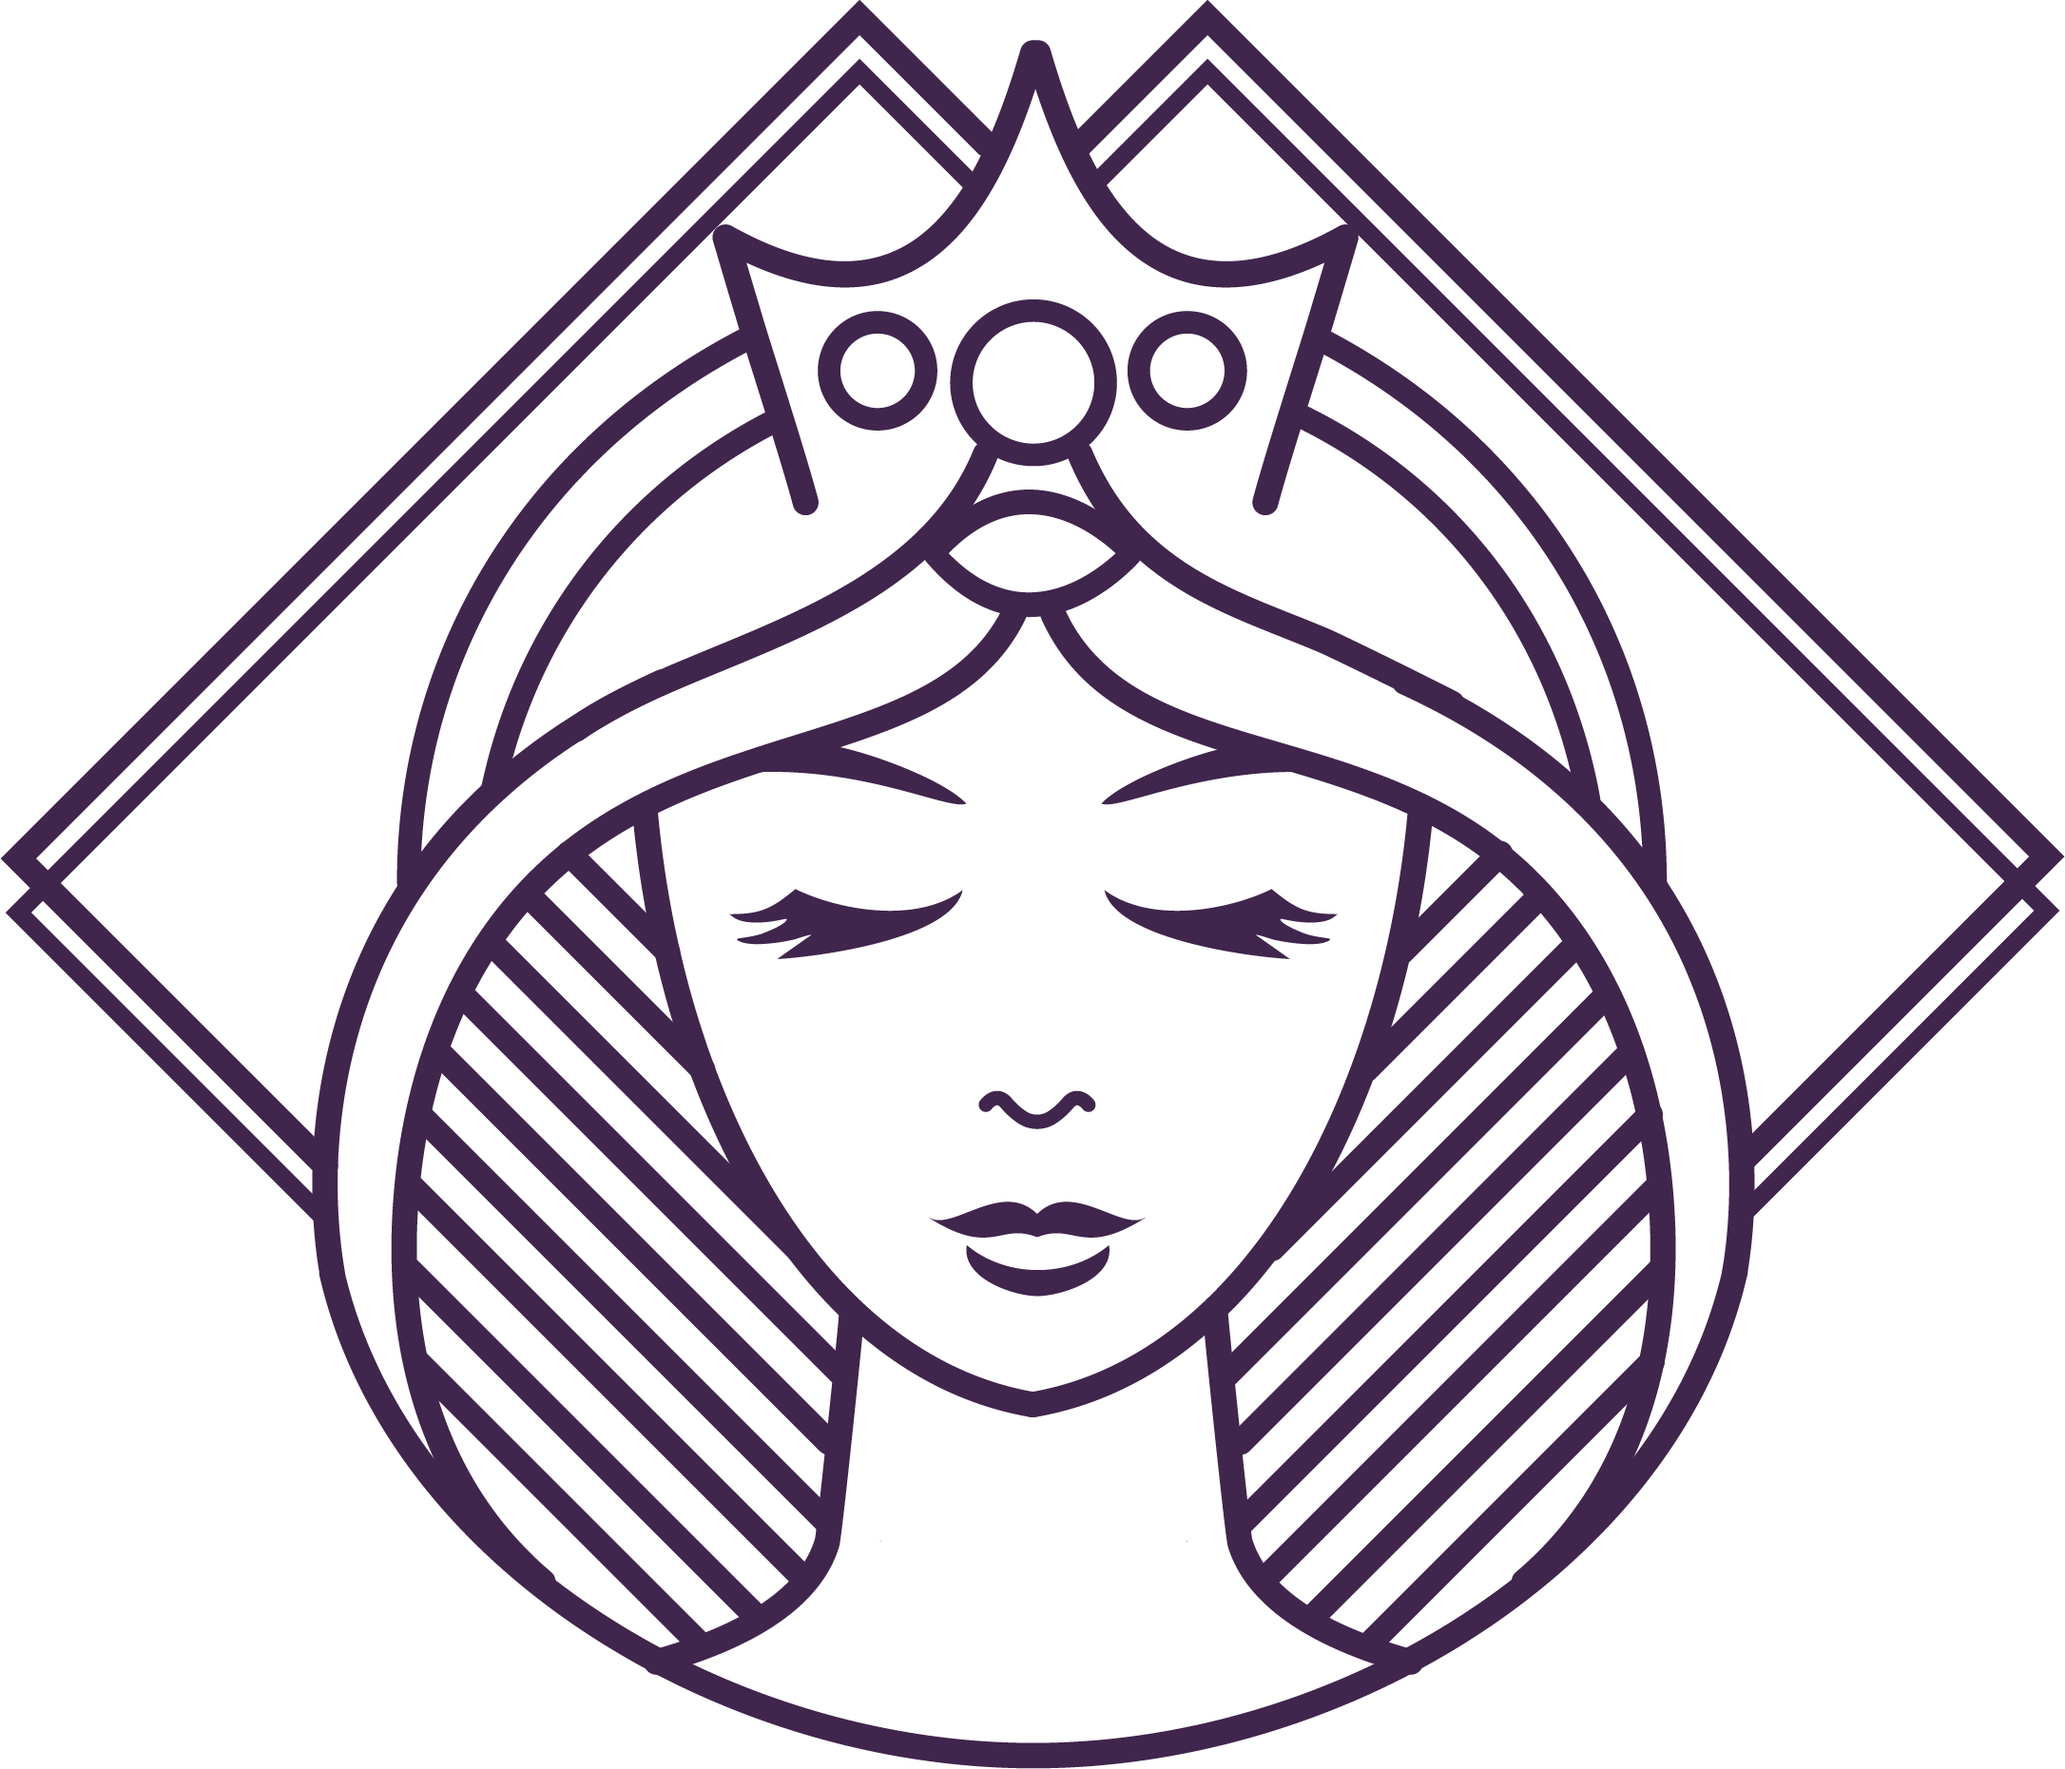
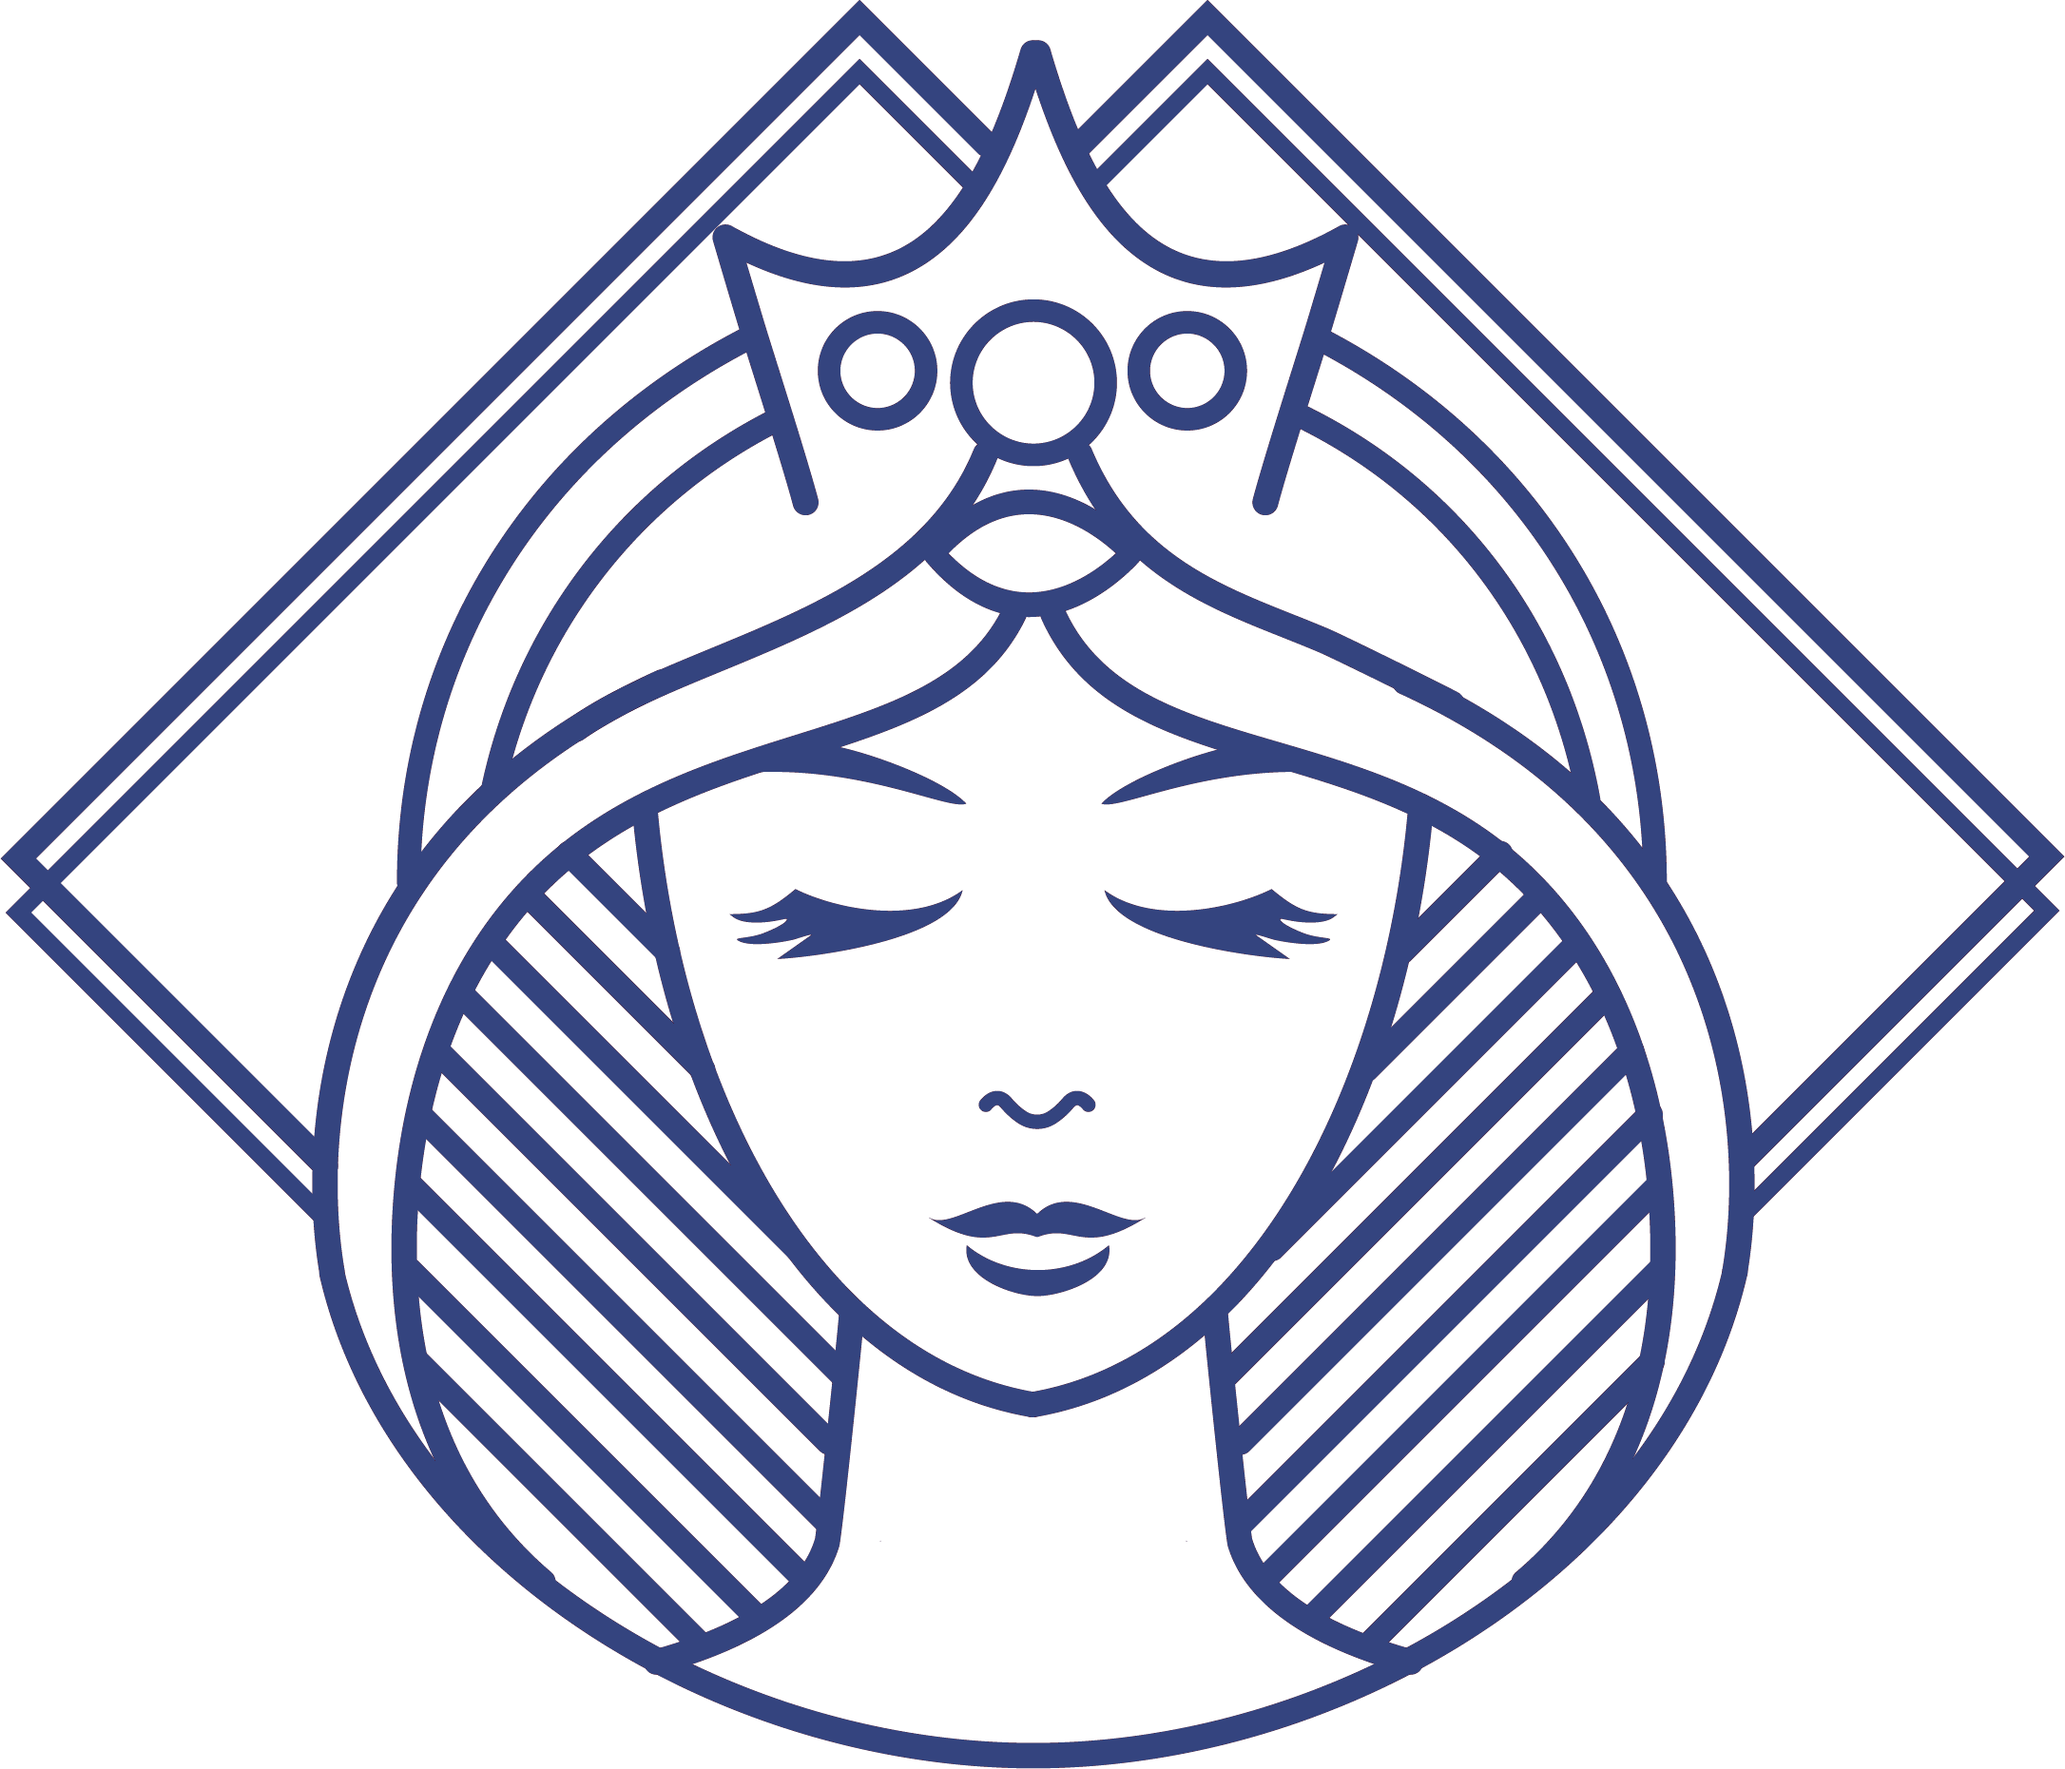
cambio icono

diff --git a/lib/presentation/screens/auth/login_screen.dart b/lib/presentation/screens/auth/login_screen.dart
@@ -24,17 +24,22 @@ class _LoginView extends StatelessWidget {
 
   @override
   Widget build(BuildContext context) {
-    return const SafeArea(
+    return SafeArea(
       child: Padding(
-        padding: EdgeInsets.symmetric(horizontal: 30),
+        padding: const EdgeInsets.symmetric(horizontal: 30),
         child: SingleChildScrollView(
           child: Column(
             children: [
-              SizedBox(height: 40),
-              FlutterLogo(size: 200),
-              SizedBox(height: 40),
-              _LoginForm(),
-              SizedBox(height: 20),
+              const SizedBox(height: 40),
+              Image.asset(
+                'assets/images/icono.png',
+                width: 200, // Opcional: tamaño deseado
+                height: 200,
+                fit: BoxFit.contain, // O BoxFit.cover, según prefieras
+              ),
+              const SizedBox(height: 40),
+              const _LoginForm(),
+              const SizedBox(height: 20),
             ],
           ),
         ),
@@ -73,7 +78,7 @@ class _LoginForm extends ConsumerWidget {
             label: 'Correo electrónico',
             prefixIcon: Icons.email,
             onChanged: loginNotifier.emailChanged,
-            //initialValue: 'angelitorogo@hotmail.com', //eliminar linea.
+            initialValue: 'angelitorogo@hotmail.com', //eliminar linea.
             validator: (_) {
               return loginState.emailTouched
                   ? Email.emailErrorMessage(loginState.email.error)
@@ -89,7 +94,7 @@ class _LoginForm extends ConsumerWidget {
             prefixIcon: Icons.password,
             obscureText: true,
             onChanged: loginNotifier.passwordChanged,
-            //initialValue: 'Rod00gom!', //Eliminar linea
+            initialValue: 'Rod00gom!', //Eliminar linea
             validator: (_) {
               return loginState.passwordTouched
                   ? Password.passwordErrorMessage(loginState.password.error)
@@ -146,18 +151,6 @@ class _LoginForm extends ConsumerWidget {
               
               },
 
-              /*
-              onPressed: authState.isLoading ||
-                      loginState.status != FormzSubmissionStatus.success
-                  /? null
-                  : () async {
-                      await authNotifier.login(
-                        context,
-                        loginState.email.value,
-                        loginState.password.value,
-                      );
-                    },
-              */
               icon: const Icon(Icons.login, size: 30, color: Colors.white,),
               label: const Text('Login', style: TextStyle(fontSize: 17)),
             ),

diff --git a/lib/presentation/screens/auth/register_screen.dart b/lib/presentation/screens/auth/register_screen.dart
@@ -26,17 +26,22 @@ class _RegisterView extends StatelessWidget {
 
   @override
   Widget build(BuildContext context) {
-    return const SafeArea(
+    return SafeArea(
       child: Padding(
-        padding: EdgeInsets.symmetric(horizontal: 30),
+        padding: const EdgeInsets.symmetric(horizontal: 30),
         child: SingleChildScrollView(
           child: Column(
             children: [
-              SizedBox(height: 40),
-              FlutterLogo(size: 200),
-              SizedBox(height: 40),
-              _RegisterForm(),
-              SizedBox(height: 20),
+              const SizedBox(height: 40),
+              Image.asset(
+                'assets/images/icono.png',
+                width: 200, // Opcional: tamaño deseado
+                height: 200,
+                fit: BoxFit.contain, // O BoxFit.cover, según prefieras
+              ),
+              const SizedBox(height: 40),
+              const _RegisterForm(),
+              const SizedBox(height: 20),
             ],
           ),
         ),

diff --git a/lib/presentation/providers/auth/auth_provider.dart b/lib/presentation/providers/auth/auth_provider.dart
@@ -142,9 +142,9 @@ class AuthNotifier extends StateNotifier<AuthState> {
     state = state.copyWith(isLoading: true, errorMessage: null);
 
     //email = 'pepe2@pepe.com'; //para no tener que escribir email y password mientras dure el desarrollo
-    //email = 'angelitorogo@hotmail.com';
+    email = 'angelitorogo@hotmail.com';
     //email = 'crysmaldonado20@gmail.com'; //para no tener que escribir email y password mientras dure el desarrollo
-    //password = 'Rod00gom!'; //para no tener que escriboir email y password mientras dure el desarrollo
+    password = 'Rod00gom!'; //para no tener que escriboir email y password mientras dure el desarrollo
 
    
 
